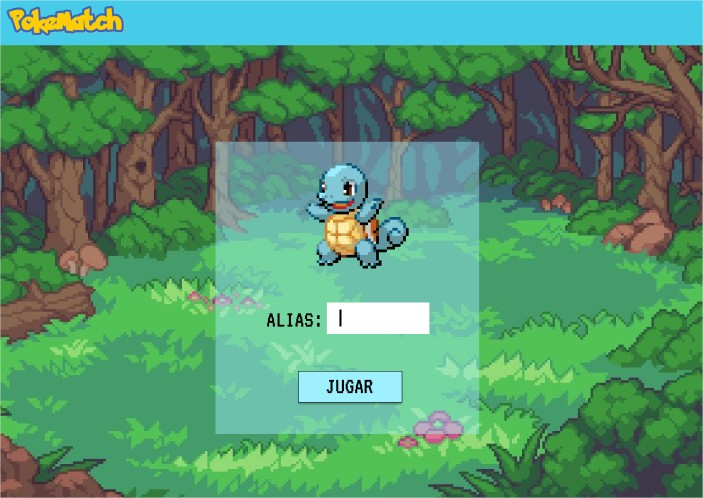
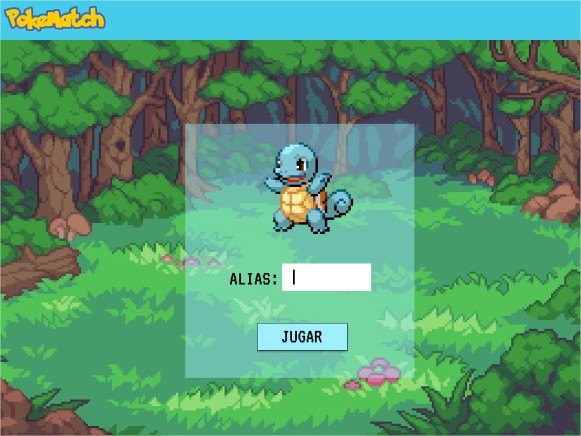
proyecto finalizado

diff --git a/src/style.css b/src/style.css
@@ -7,7 +7,7 @@
 button {
     background-color: #9FF0FF;
     border: #000 solid 1px;
-    padding: 8px 30px;
+    padding: 6px 12px;
     font-size: 40px;
 }
 button:hover {
@@ -56,24 +56,7 @@ body {
     margin-left: 9px;
 }
 
-.background-image {
-    background-image: url(img/imagenFondo.jpg);
-    background-repeat: no-repeat;
-    background-size: cover;
-    background-position: center;
-    height: 760px;
-}
 
-#user-log {
-    display: flex;
-    flex-direction: column;
-    justify-content: center;
-    width: 300px;
-    height: 381px;
-    margin: 150px auto 50% auto;
-    align-items: center;
-    background-color: hsla(189, 100%, 81%, 0.44);
-}
 
 .squirtle {
     height: 160px;
@@ -122,12 +105,7 @@ body {
     margin-top: 190px;
 }
 
-#stacked-cards {
-    height: 157px;
-    margin-right: auto;
-    margin-left: auto;
-    margin-bottom: 58px;
-}
+
 
 #menu-buttons {
     grid-auto-flow: column;
@@ -198,28 +176,106 @@ body {
 #game {
     display: none;
 }
-
-.card{
-    width: 100px;
-    height: 100px;
-    margin: 15px;
-}
   
-.image-card{
-    height: 100px;
+
+
+/*para mobile*/
+@media (min-width: 320px) and (max-width: 480px){
+    .background-image {
+        background-image: url(img/imagenFondo.jpg);
+        background-repeat: no-repeat;
+        background-size: cover;
+        background-position: center;
+        height: 95.5vh;
+        overflow: hidden;
+    }
+
+    .image-card-mobile{
+        height: 92px !important;
+    }
+
+    body {
+        overflow: hidden;
+    }
+    .image-card{
+        height: 100px;
+    }
+    
+    #user-log {
+        display: flex;
+        flex-direction: column;
+        justify-content: center;
+        width: 300px;
+        height: 381px;
+        margin: 117px auto 50% auto;
+        align-items: center;
+        background-color: hsla(189, 100%, 81%, 0.44);
+    }
+    #stacked-cards {
+        height: 232px;
+        margin-right: auto;
+        margin-left: auto;
+        margin-bottom: 60px;
+        margin-top: 8px;
+    }
+    .card {
+        width: 80px;
+        height: 80px;
+        margin: 10px;
+    }
+    #game-over {
+        display: none;
+        flex-direction: column;
+        justify-content: center;
+        width: 320px;
+        height: 300px;
+        margin: 195px auto 50% auto;
+        align-items: center;
+        background-color: hsla(189, 100%, 81%, 0.44);
+    }
 }
 
-/* modelo responsive para tablet */
+/* modelo responsive para tablet ipas*/
+
 @media (min-width: 768px) and (max-width: 1024px){
+    body {
+        overflow: hidden;
+    }
+
+    .background-image {
+        background-image: url(img/imagenFondo.jpg);
+        background-repeat: no-repeat;
+        background-size: cover;
+        background-position: center;
+        height: 100vh;
+        overflow: hidden;
+    }
+    #user-log {
+        display: flex;
+        flex-direction: column;
+        justify-content: center;
+        width: 300px;
+        height: 381px;
+        margin: 266px auto 50% auto;
+        align-items: center;
+        background-color: hsla(189, 100%, 81%, 0.44);
+    }
+    #stacked-cards {
+        height: 232px;
+        margin-right: auto;
+        margin-left: auto;
+        margin-bottom: 60px;
+        margin-top: 182px;
+    }
 
     #allCards {
         grid-template-columns: 1fr 1fr 1fr 1fr;
     }
 
     .card{
-        width: 140px;
-        height: 140px;
-        margin: 30px;
+        width: 134px;
+        height: 138px;
+        margin: 31px;
     }
 
     .image-card{
@@ -228,41 +284,76 @@ body {
 
     .card-container {
         display: grid;
+    }
+    #game-over {
+        display: none;
+        flex-direction: column;
+        justify-content: center;
+        width: 320px;
+        height: 300px;
+        margin: 343px auto 50% auto;
+        align-items: center;
+        background-color: hsla(189, 100%, 81%, 0.44);
     }
 }
 
 /* modelo responsive desktop */
 @media (min-width: 1024px){
+    .background-image {
+        background-image: url(img/imagenFondo.jpg);
+        background-repeat: no-repeat;
+        background-size: cover;
+        background-position: center;
+        height: 91.5vh;
+    }
+    #user-log {
+        display: flex;
+        flex-direction: column;
+        justify-content: center;
+        width: 300px;
+        height: 381px;
+        margin: 109px auto 50% auto;
+        align-items: center;
+        background-color: hsla(189, 100%, 81%, 0.44);
+    }
     
     #allCards {
         grid-template-columns: 1fr 1fr 1fr 1fr 1fr 1fr;
     }
+    #stacked-cards {
+        height: 157px;
+        margin-right: auto;
+        margin-left: auto;
+        margin-bottom: 58px;
+    }
 
     .card{
-        width: 170px;
-        height: 170px;
-        margin: 30px;
+        width: 150px;
+        height: 113px;
+        margin: 34px;
     }
 
     .image-card{
-        height: 170px;
+        height: 155px;
     }
     
     .card-container {
         display: grid;
     }
+    #game-over {
+        display: none;
+        flex-direction: column;
+        justify-content: center;
+        width: 320px;
+        height: 300px;
+        margin: 151px auto 50% auto;
+        align-items: center;
+        background-color: hsla(189, 100%, 81%, 0.44);
+    }
 }
 
-#game-over {
-    display: none;
-    flex-direction: column;
-    justify-content: center;
-    width: 320px;
-    height: 300px;
-    margin: 150px auto 50% auto;
-    align-items: center;
-    background-color: hsla(189, 100%, 81%, 0.44);
-}
+
+
 
 #finalMessage {
     font-size: 30px;

diff --git a/src/main.js b/src/main.js
@@ -7,7 +7,7 @@ function buildCards() {
   resultCards.forEach((value) => {
     HTML_Cards +=
       '<div class="card">' +
-      '<div class="face hide" id="face_' + value.card_id + "-" + value.card_index + '" pokemon-back-id="back_' + value.card_id + "-" + value.card_index + '" style="border: ' + value.card_bgColor + ' solid 3px;background-color: white"><img src="' + value.card_image + '"  alt="'+ value.card_id +'" class="image-card"/></div>' +
+      '<div class="face hide" id="face_' + value.card_id + "-" + value.card_index + '" pokemon-back-id="back_' + value.card_id + "-" + value.card_index + '" style="border: ' + value.card_bgColor + ' solid 3px;background-color: white"><img src="' + value.card_image + '"  alt="'+ value.card_id +'" class="image-card image-card-mobile"/></div>' +
       '<div class="back show" id="back_' + value.card_id + "-" + value.card_index + '" pokemon-face-id="face_' + value.card_id + "-" + value.card_index + '" name="'+ value.card_id +'" ><img src="img/card-back.png" class="image-card" /></div>' +
       "</div>";
       

diff --git a/src/data/README.md b/src/data/README.md
@@ -1,5 +1,5 @@
 ## POKEMATCH
-Es un juego de memoria que agilizara tu memoria, esta basado en cartas, solo tendras que voltearlas y listo.
+Es un juego de memoria que esta basado en cartas, solo tendras que voltearlas y hacer match.
 
 ## PROTOTIPO DE BAJA FIDELIDAD
 ![alt text](/src/img/bajafidelidad.png)
@@ -12,13 +12,45 @@ Es un juego de memoria que agilizara tu memoria, esta basado en cartas, solo ten
 ![alt text](/src/img/escritorio4.jpg)
 ![alt text](/src/img/escritorio5.jpg)
 
+## PROTOTIPO DE ALTA FIDELIDAD PARA MOBILE
+![alt text](/src/img/movil1.jpg)
+![alt text](/src/img/movil2.jpg)
+![alt text](/src/img/movil3.jpg)
+![alt text](/src/img/movil4.jpg)
+![alt text](/src/img/movil5.jpg)
+
+## PROTOTIPO DE ALTA FIDELIDAD PARA TABLET
+![alt text](/src/img/tablet1.jpg)
+![alt text](/src/img/tablet2.jpg)
+![alt text](/src/img/tablet3.jpg)
+![alt text](/src/img/tablet4.jpg)
+![alt text](/src/img/tablet5.jpg)
+
 
 
 ## SOBRE EL TEMA DEL DISEÑO 
 Nos inspiramos mucho sobre un juego llamado Pokemon cuando recien se lanzaron en video juegos y la tematica pixeleada es algo que nunca pasara de moda , quisimos que nuestros usuarios recuerden esa tematica de las letras, colores y fotografias pixeleadas.
 
+## EL COLOR QUE SE IMPLEMENTO
+Para aquellos usuarios que le gusta los colores vivos y tambien para fans de pokemon , con su estilo pixeliado.
+
 ## ESTA DESARROLLADO PARA 
- Usuarios 
+ Usuarios que desean ejercitar su memoria, mediante cartas interactivas , pueden jugar niñxs y adultos desde los 7 años.
+
+ ## COMO UTILIZAR EL JUEGO DE MEMORIA POKEMATCH 
+ -iniciar seción poniendo solo tu nombre (alias).
+ -hay un boton si deseas saber como se juega.
+ -otro boton para repartir tus cartas y jugar.
+ -las cartas se voltearan de par en par , si no adivinas se volteara , hasta que puedas llegar a coincidir cada carta.
+ -si completaste el juego , habras ganado.
+ 
+ ## QUE SE IMPLEMENTO EN EL JUEGO
+ -una pantalla de inicio interactivo.
+ -cartas con dibujos de pokemon.
+ -diseño de fondo de pokemon.
+ -estilo de letra pixeliado.
+ -nombre personalizado mientras juegas y cuando ganas.
+ -movimientos mientras vas girando las cartas. 
 
 
 
